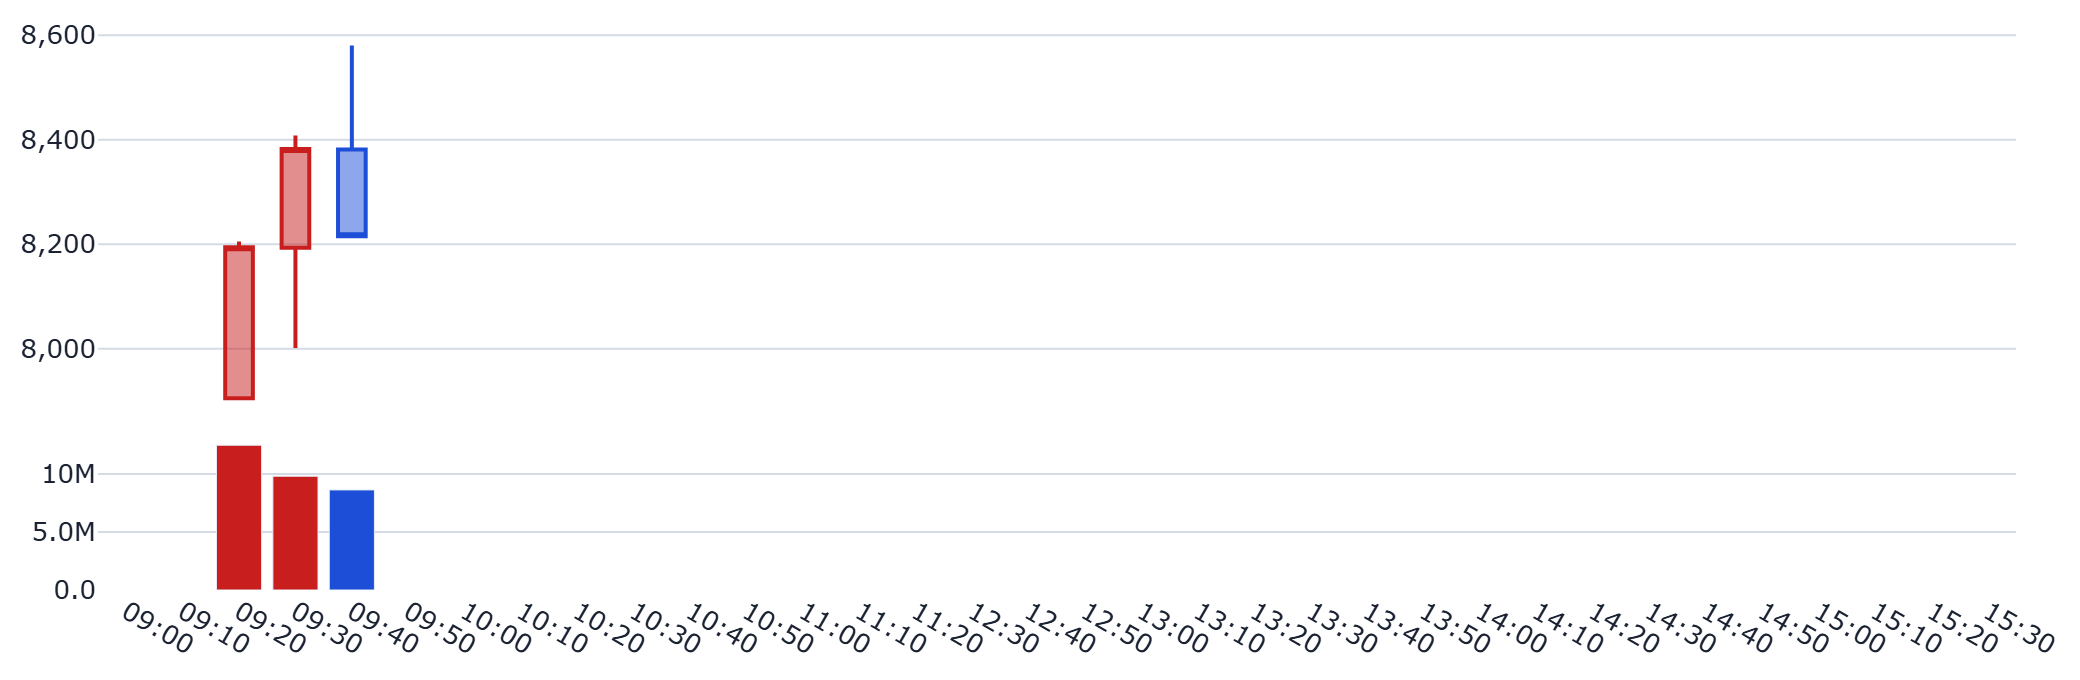
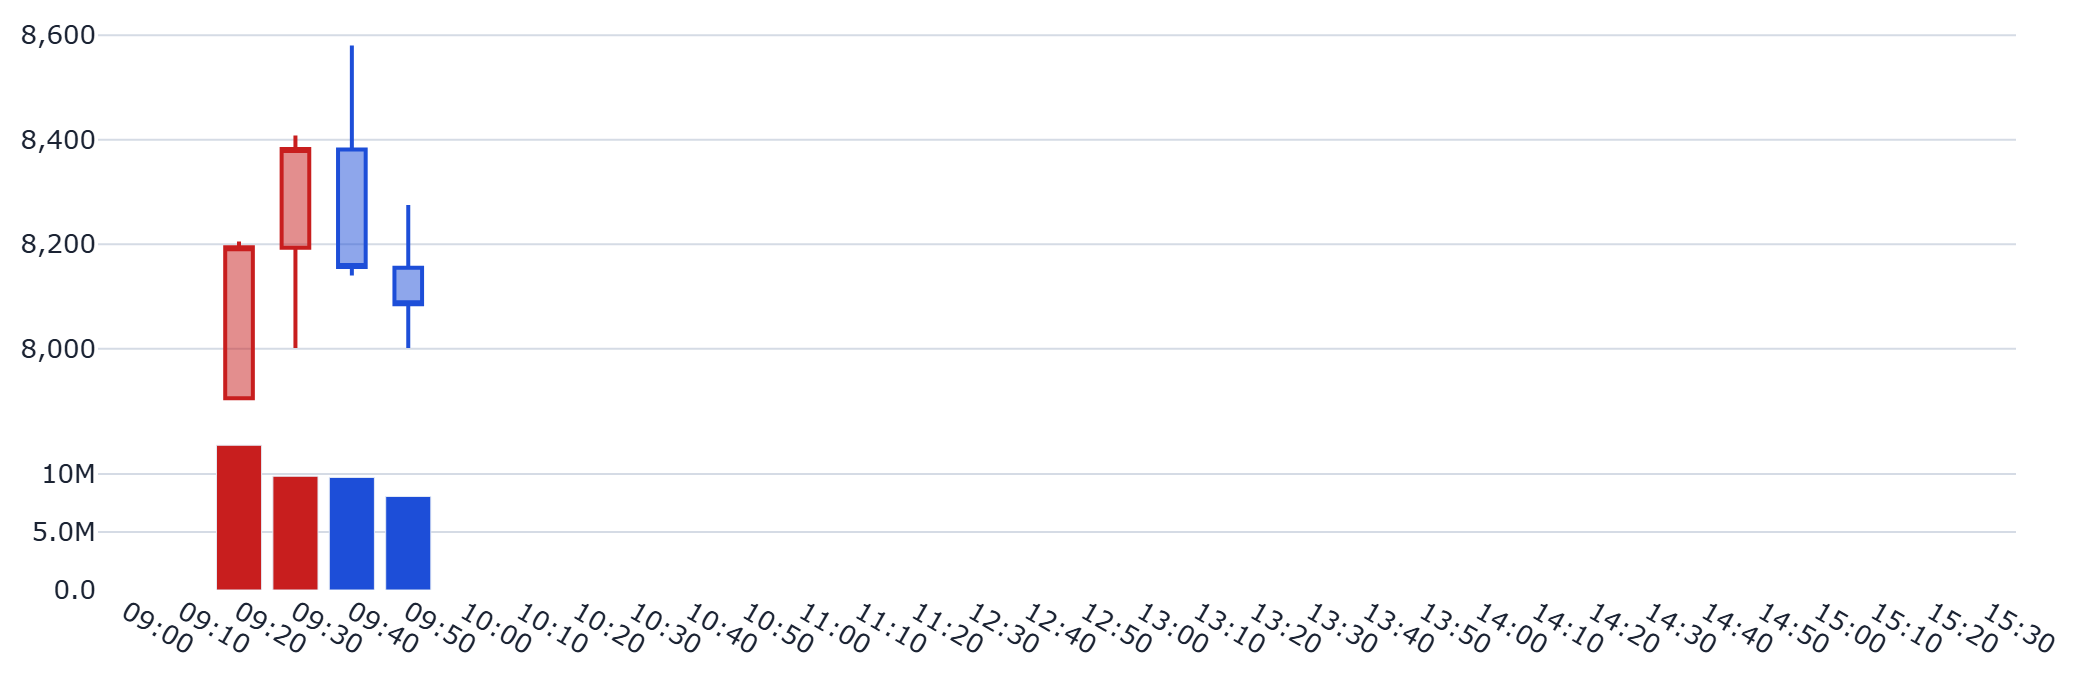
auto: refresh static dashboard (2026-11-06 09:59:08 JST)

Changed region(s): [[0.1562, 0.6794, 0.2188, 0.8647], [0.1562, 0.3397, 0.2188, 0.4632]]

diff --git a/docs/index.html b/docs/index.html
@@ -141,12 +141,12 @@
       <div class="panel header">
         <span class="symbol">285A</span>
         <span class="company">キオクシアホールディングス</span>
-        <span class="price">8,215円</span>
-        <span class="chg" style="color:#1D4ED8">-11.89%</span>
+        <span class="price">8,085円</span>
+        <span class="chg" style="color:#1D4ED8">-13.29%</span>
       </div>
       <p class="caption">更新時刻: 2026-11-06T09:42:10（データは1分間隔で自動生成され、このページも
       60秒毎に自動再読み込みされます）</p>
-      <p class='caption'>⚠ データの更新が約7分前から止まっている可能性があります(通常は1分毎に自動生成)。</p>
+      <p class='caption'>⚠ データの更新が約17分前から止まっている可能性があります(通常は1分毎に自動生成)。</p>
       <p id='visit-count-badge' class='caption'>👀 累計閲覧数: 12,470</p>
       <p id='like-button-wrap' class='caption'><button id='like-button' type='button' style='cursor:pointer;border:1px solid var(--border);border-radius:6px;padding:1px 10px;margin-right:6px;background:var(--panel);color:var(--text);font-size:1em;vertical-align:middle'>👍</button><span id='like-count-label'>このダッシュボードが役に立ったら押してください（累計 4 いいね）</span></p>
 
@@ -155,9 +155,9 @@
            常時最上部に表示する。 -->
       <h2>🤖 AI考察</h2>
       <div class='panel' id='ai-schedule'><h3>🗓 AI考察の予定</h3><ul><li>平日の立会日に、寄り前 08:50／寄り直後 09:10／前場引け前 11:30／大引け後 15:45 の4時点で考察を更新します（考察はClaude(AI)が書きます）。</li><li>土日祝などの休場日は考察を書きません。</li><li>時点の間は、数値のみを約10分ごとに更新します（文章は次の時点まで更新されません）。</li><li>次の予定: 11-06 11:30（前場引け前）／直近の更新: 11-06 09:30（自動生成）</li></ul></div>
-      <div class='panel' id='numeric-summary'><h3>📊 数値要約｜09:42 更新</h3><ul><li>株価: 8,215円（前営業日終値比 -11.89%）</li><li>掲示板: 強気 30.7%／弱気 63.6%／中立 5.7%・投稿 16,362件（約1636件/時）</li><li>シグナル: 発火＝暴落煽り語彙(5.6)・阿鼻叫喚(セリクラ)(37.3)／警戒＝他銘柄混入率(0.09)／平常＝灼熱メーター(過熱)(13.1)・そう思う大量票(36)・イナゴ語彙(euphoria)(1.2)・ネームド集中(0.01)ほか</li><li>11/6 09:42時点｜買い総量 290.8万株／売り総量 154.8万株／比 1.88／差 +136.1万株</li><li>直近30秒: 買い +16.7万株(増加)／売り -4.9万株(減少)</li><li>直近1分: 買い +23.8万株(増加)／売り -17.9万株(減少)</li><li>直近3分: 買い +42.9万株(増加)／売り -48.1万株(減少)</li><li>直近5分: 買い +39.1万株(増加)／売り -30.9万株(減少)</li><li>11/6 09:42時点｜現在値 8,573円／VWAP 8,141.3円（距離 +431.7円・+5.30%）</li><li>出来高 2,487.2万株／売買代金(試算) 2,024.9億円／日中高値 8,580円・安値 7,905円</li><li>変化点: 前営業日終値比 +1.64pt・投稿 +579件</li></ul><p class='caption'>強気・弱気は機械判定（辞書＋軽量モデル）の値です。日単位の向きはLM判定と近く（相関0.8台）、時間単位は粗い点に注意してください。</p></div>
+      <div class='panel' id='numeric-summary'><h3>📊 数値要約｜09:42 更新</h3><ul><li>株価: 8,085円（前営業日終値比 -13.29%）</li><li>掲示板: 強気 30.7%／弱気 63.6%／中立 5.7%・投稿 16,362件（約1636件/時）</li><li>シグナル: 発火＝暴落煽り語彙(5.6)・阿鼻叫喚(セリクラ)(37.3)／警戒＝他銘柄混入率(0.09)／平常＝灼熱メーター(過熱)(13.1)・そう思う大量票(36)・イナゴ語彙(euphoria)(1.2)・ネームド集中(0.01)ほか</li><li>11/6 09:42時点｜買い総量 290.8万株／売り総量 154.8万株／比 1.88／差 +136.1万株</li><li>直近30秒: 買い +16.7万株(増加)／売り -4.9万株(減少)</li><li>直近1分: 買い +23.8万株(増加)／売り -17.9万株(減少)</li><li>直近3分: 買い +42.9万株(増加)／売り -48.1万株(減少)</li><li>直近5分: 買い +39.1万株(増加)／売り -30.9万株(減少)</li><li>11/6 09:42時点｜現在値 8,573円／VWAP 8,141.3円（距離 +431.7円・+5.30%）</li><li>出来高 2,487.2万株／売買代金(試算) 2,024.9億円／日中高値 8,580円・安値 7,905円</li><li>変化点: 投稿 +579件</li></ul><p class='caption'>強気・弱気は機械判定（辞書＋軽量モデル）の値です。日単位の向きはLM判定と近く（相関0.8台）、時間単位は粗い点に注意してください。</p></div>
       <div class='panel' id='screen-extras'><h3>🧭 板・価格まわり・見立ての採点（参考）</h3><ul><li>11/6 09:42時点｜買い総量 290.8万株／売り総量 154.8万株／比 1.88／差 +136.1万株</li><li>直近30秒: 買い +16.7万株(増加)／売り -4.9万株(減少)</li><li>直近1分: 買い +23.8万株(増加)／売り -17.9万株(減少)</li><li>直近3分: 買い +42.9万株(増加)／売り -48.1万株(減少)</li><li>直近5分: 買い +39.1万株(増加)／売り -30.9万株(減少)</li><li>11/6 09:42時点｜現在値 8,573円／VWAP 8,141.3円（距離 +431.7円・+5.30%）</li><li>出来高 2,487.2万株／売買代金(試算) 2,024.9億円／日中高値 8,580円・安値 7,905円</li></ul><p class='caption'>板情報・約定ティック(遅延あり)から作成。売買代金は試算(VWAP×出来高)。見立ての採点は参考・機械採点で、売買の推奨ではありません。</p></div>
-      <div class='metric-row'><div class='metric-card'><div class='metric-label'>株価</div><div class='metric-value'>8,215円</div><div class='metric-delta'>+153円</div></div><div class='metric-card'><div class='metric-label'>強気比率</div><div class='metric-value'>30.7%</div><div class='metric-delta'>+0.4pt</div></div><div class='metric-card'><div class='metric-label'>弱気比率</div><div class='metric-value'>63.6%</div><div class='metric-delta'>-0.4pt</div></div></div><p class='caption'>前回集計(2026-11-06T09:32:05)との比較</p>
+      <div class='metric-row'><div class='metric-card'><div class='metric-label'>株価</div><div class='metric-value'>8,085円</div><div class='metric-delta'>+23円</div></div><div class='metric-card'><div class='metric-label'>強気比率</div><div class='metric-value'>30.7%</div><div class='metric-delta'>+0.4pt</div></div><div class='metric-card'><div class='metric-label'>弱気比率</div><div class='metric-value'>63.6%</div><div class='metric-delta'>-0.4pt</div></div></div><p class='caption'>前回集計(2026-11-06T09:32:05)との比較</p>
       <div class='ai-box'>※無料公開データを機械的に集計した観測情報であり、投資助言・売買推奨ではありません。（11-06 09:30時点・寄り直後の整理です）<br>
 <br>
 ■ 285Aの寄り付き<br>
@@ -274,11 +274,11 @@
         <div class="grid2">
           <div class="panel">
             <h3>支持線・抵抗線の目安（SD単位）</h3>
-            <table style='width:100%;border-collapse:collapse;font-size:.92em'><thead><tr><th style='text-align:left'>値幅の目安</th><th style='text-align:left'>上側の水準</th><th style='text-align:left'>下側の水準</th></tr></thead><tbody><tr><td>0.5SD（±3.78%）</td><td>8,525円</td><td>7,905円</td></tr><tr><td>1.0SD（±7.56%）</td><td>8,836円</td><td>7,594円</td></tr><tr><td>1.5SD（±11.34%）</td><td>9,146円</td><td>7,284円</td></tr></tbody></table><p class='caption'>直近14日間の最高値（2026-10-29・14,505円）からの乖離: -43.36%</p><p class='caption'>SDは直近14日間の日次終値リターンの標準偏差（7.56%/日）から算出した値幅の目安であり、到達を予測するものではありません。</p>
+            <table style='width:100%;border-collapse:collapse;font-size:.92em'><thead><tr><th style='text-align:left'>値幅の目安</th><th style='text-align:left'>上側の水準</th><th style='text-align:left'>下側の水準</th></tr></thead><tbody><tr><td>0.5SD（±3.78%）</td><td>8,391円</td><td>7,779円</td></tr><tr><td>1.0SD（±7.56%）</td><td>8,696円</td><td>7,474円</td></tr><tr><td>1.5SD（±11.34%）</td><td>9,002円</td><td>7,168円</td></tr></tbody></table><p class='caption'>直近14日間の最高値（2026-10-29・14,505円）からの乖離: -44.26%</p><p class='caption'>SDは直近14日間の日次終値リターンの標準偏差（7.56%/日）から算出した値幅の目安であり、到達を予測するものではありません。</p>
           </div>
           <div class="panel">
             <h3>市場コンテキスト</h3>
-            <div class='metric-row'><div class='metric-card'><div class='metric-label'>本日の値動きの型</div><div class='metric-value' style='font-size:1.05rem'>トレンド型</div><div class='metric-delta'>不確実性: 普段並み</div></div><div class='metric-card'><div class='metric-label'>値動き ÷ 執行コスト</div><div class='metric-value'>約430.8倍</div><div class='metric-delta'>費用実測2.76bp</div></div></div><p class='caption'>海外ピアの値動き・本日の値動きの型はいずれも事実の記述であり、翌営業日の値動きを予測するものではありません。値動き÷執行コストは値幅の大きさの目安であり、実際に利益を確保できることを意味しません。</p>
+            <div class='metric-row'><div class='metric-card'><div class='metric-label'>本日の値動きの型</div><div class='metric-value' style='font-size:1.05rem'>トレンド型</div><div class='metric-delta'>不確実性: 普段並み</div></div><div class='metric-card'><div class='metric-label'>値動き ÷ 執行コスト</div><div class='metric-value'>約481.5倍</div><div class='metric-delta'>費用実測2.76bp</div></div></div><p class='caption'>海外ピアの値動き・本日の値動きの型はいずれも事実の記述であり、翌営業日の値動きを予測するものではありません。値動き÷執行コストは値幅の大きさの目安であり、実際に利益を確保できることを意味しません。</p>
           </div>
         </div>
         <div class="panel">
@@ -293,7 +293,7 @@
 
       <hr style="border:none;border-top:1px solid var(--border);margin:2rem 0 1rem">
       <p class="caption">⚠ 本情報は掲示板投稿を統計的に集計したものであり、投資助言ではありません。個別の投稿内容は含まれていません。研究・エンタメ用途です。</p>
-      <footer>生成: generate_static_dashboard.py（2026-11-06T09:49:03） /
+      <footer>生成: generate_static_dashboard.py（2026-11-06T09:59:03） /
       画像バックエンド: plotly+kaleido</footer>
     </div>
     <script>(function(){var url="https://script.google.com/macros/s/AKfycbwgSSGQ2n56ohmIYKlNDA1Xe3D8hd3GJbD0U90L4DGtXdb8pqrPokNMHJWjvN1__7bE/exec";var KEY='bbs_visit_counted';var already=sessionStorage.getItem(KEY);var action=already?'read':'hit';var ctrl=(typeof AbortController!=='undefined')?new AbortController():null;var timer=ctrl?setTimeout(function(){ctrl.abort();},5000):null;fetch(url+'?action='+action,{signal:ctrl?ctrl.signal:undefined}).then(function(r){if(timer)clearTimeout(timer);return r.json();}).then(function(data){if(!already)sessionStorage.setItem(KEY,'1');if(data&&typeof data.count==='number'){var el=document.getElementById('visit-count-badge');if(el){el.textContent='\u{1F440} \u7d2f\u8a08\u95b2\u89a7\u6570: '+data.count.toLocaleString();el.style.display='';}}}).catch(function(e){if(timer)clearTimeout(timer);console.warn('visit counter fetch failed (fail-soft):',e);});})();</script><script>(function(){var url="https://script.google.com/macros/s/AKfycbwgSSGQ2n56ohmIYKlNDA1Xe3D8hd3GJbD0U90L4DGtXdb8pqrPokNMHJWjvN1__7bE/exec";var KEY='bbs_liked';var btn=document.getElementById('like-button');var label=document.getElementById('like-count-label');if(!btn||!label)return;function renderLiked(count){btn.disabled=true;btn.style.cursor='default';btn.style.opacity='0.6';btn.textContent='\u2705';label.textContent="\u3044\u3044\u306d\u3057\u307e\u3057\u305f\uff01"+(typeof count==='number'?"\uff08\u7d2f\u8a08 "+count.toLocaleString()+" \u3044\u3044\u306d\uff09":'');}if(localStorage.getItem(KEY)){renderLiked(null);}btn.addEventListener('click',function(){if(localStorage.getItem(KEY))return;btn.disabled=true;var ctrl=(typeof AbortController!=='undefined')?new AbortController():null;var timer=ctrl?setTimeout(function(){ctrl.abort();},5000):null;fetch(url+'?action=like_hit',{signal:ctrl?ctrl.signal:undefined}).then(function(r){if(timer)clearTimeout(timer);return r.json();}).then(function(data){localStorage.setItem(KEY,'1');renderLiked(data&&typeof data.count==='number'?data.count:null);}).catch(function(e){if(timer)clearTimeout(timer);btn.disabled=false;console.warn('like button fetch failed (fail-soft):',e);});});})();</script><script>(function(){var DEFAULT_TAB='overview';function activate(tabName){var buttons=document.querySelectorAll('.tab-bar .tab-btn');var panels=document.querySelectorAll('[data-tab-panel]');if(!buttons.length||!panels.length)return;var matched=false;panels.forEach(function(p){var on=p.getAttribute('data-tab-panel')===tabName;if(on)matched=true;p.classList.toggle('tab-hidden',!on);});if(!matched){panels.forEach(function(p){p.classList.toggle('tab-hidden',p.getAttribute('data-tab-panel')!==DEFAULT_TAB);});tabName=DEFAULT_TAB;}buttons.forEach(function(b){var on=b.getAttribute('data-tab')===tabName;b.classList.toggle('active',on);b.setAttribute('aria-selected',on?'true':'false');});}document.addEventListener('DOMContentLoaded',function(){var bar=document.getElementById('tabBar');if(!bar)return;bar.addEventListener('click',function(e){var btn=e.target.closest('.tab-btn');if(!btn)return;activate(btn.getAttribute('data-tab'));});activate(DEFAULT_TAB);});})();</script></body></html>
